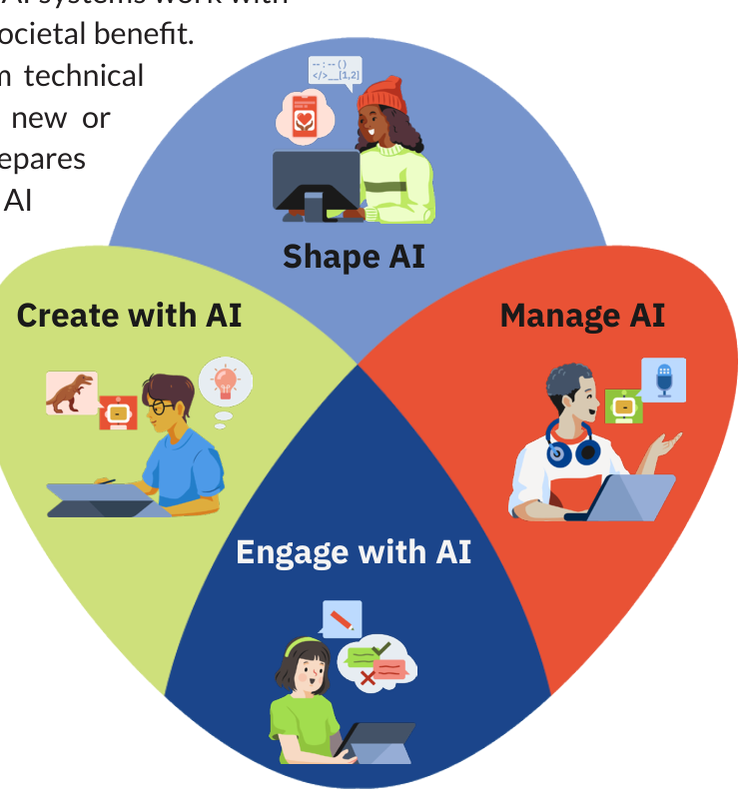
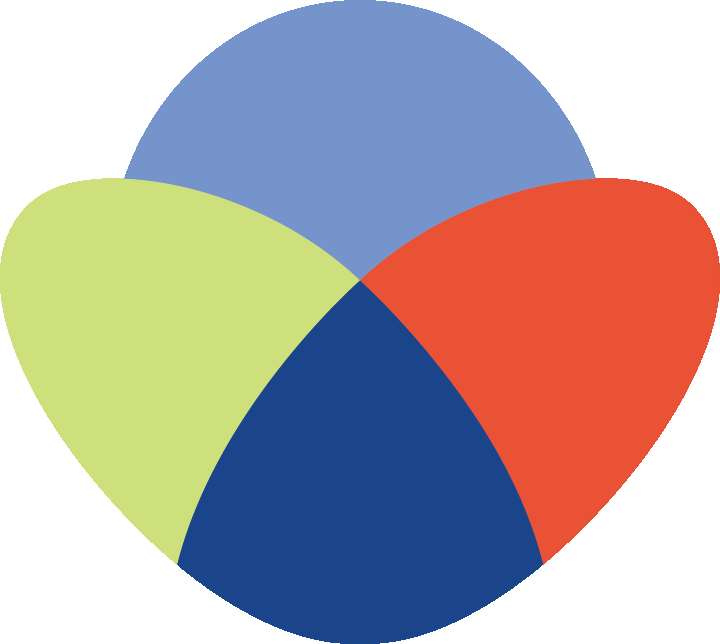
fix(ailit): 깨진 도판 교체 + 가독성 개선, about 문체·강조 조정
AILit 번역 포스트 도판
- 그림 1: 페이지 클립 좌표를 눈대중으로 잡아 왼쪽 본문 줄 끝이 잘려
  들어갔다. 본문이 원 주위를 감싸 흘러 사각형 클립으로는 분리가
  불가능해, 텍스트가 없는 원본 raster로 교체했다.
- 원본의 흰 배경이 실제 픽셀이라 다크모드에서 흰 박스로 떴다.
  근백색·근무채색 픽셀만 알파 램프로 제거(31.2%)해 두 테마에 얹힌다.
- 영문 라벨이 사라진 자리는 한국어 색상 범례로 대체
- 그림 5: 상단 영문 도입 단락(본문에서 이미 번역)을 잘라냄
- 04장 도입 삽화 삭제. 원본 PDF에서 페이지 가장자리로 잘려 나가는
  장식 요소라 추출하면 조각난 형태가 된다.

가독성
- 상단에 '읽기 안내' 카드 추가(문서 길이·구성·3단계의 의미)
- 역량 19개의 지식·기술·태도 메타를 칩으로 정리
- 기본/중급/심화 57개를 색상 배지로 교체해 스캔 가능하게
- .ailit-* 클래스에만 스타일을 걸어 다른 페이지에 영향 없음

about
- 슬로건 3문장을 존댓말로 변경
- '지금 파고드는 것들' 제목 확대, 관심 분야를 알약형 태그로 확대.
  TOC 오염을 막으려 실제 헤딩 대신 스타일 요소 사용

Claude-Session: https://claude.ai/code/session_01QeVE5A1S5QmSwqK5FTBEFZ

diff --git a/_pages/about.md b/_pages/about.md
@@ -50,6 +50,13 @@ html[data-theme="light"] #dot-manifesto .dm-nodes circle{fill:#0969da}
 html[data-theme="light"] #dot-manifesto p{color:#4a5157}
 html[data-theme="light"] #dot-manifesto .dm-key,html[data-theme="light"] #dot-manifesto .dm-last{color:#1f2328}
 html[data-theme="light"] #dot-manifesto .dm-last{border-top-color:rgba(31,35,40,.12)}
+#now-focus{margin:2.3em 0}
+#now-focus .nf-title{margin:0 0 .85em;font-size:1.34em;font-weight:700;letter-spacing:-.02em;color:#e6edf3;text-align:center}
+#now-focus .nf-tags{display:flex;flex-wrap:wrap;justify-content:center;gap:.55em;margin:0}
+#now-focus .nf-tags span{display:inline-block;padding:.44em 1.05em;border-radius:999px;font-size:1.03em;font-weight:600;line-height:1.45;color:#cfe4ff;background:rgba(88,166,255,.13);border:1px solid rgba(88,166,255,.34)}
+html[data-theme="light"] #now-focus .nf-title{color:#1f2328}
+html[data-theme="light"] #now-focus .nf-tags span{color:#0b4fa8;background:rgba(9,105,218,.08);border-color:rgba(9,105,218,.3)}
+@media (max-width:600px){#now-focus .nf-title{font-size:1.2em}#now-focus .nf-tags span{font-size:.97em;padding:.4em .9em}}
 </style>
 
 <div id="dot-manifesto">
@@ -161,14 +168,15 @@ html[data-theme="light"] #dot-manifesto .dm-last{border-top-color:rgba(31,35,40,
   </g>
 </svg>
 
-<p>지식이든 경험이든 사람이든, 모든 것은 저마다의 <span class="dm-dot">점(dot)</span>이다.</p>
-<p>흩어져 있으면 파편이지만, <span class="dm-key">선을 긋는 순간 길이 된다.</span></p>
-<p class="dm-last">이 블로그는 그 연결의 기록이다.</p>
+<p>지식이든 경험이든 사람이든, 모든 것은 저마다의 <span class="dm-dot">점(dot)</span>입니다.</p>
+<p>흩어져 있으면 파편이지만, <span class="dm-key">선을 긋는 순간 길이 됩니다.</span></p>
+<p class="dm-last">이 블로그는 그 연결의 기록입니다.</p>
 </div>
 
-**지금 파고드는 것들**
-
-`AI 디지털 교육` `질문 중심 수업·평가 설계` `깊이 있는 학습` `학습과학` `전문적 학습 공동체` `웹 서비스 개발` `집필·칼럼`
+<div id="now-focus">
+<p class="nf-title">지금 파고드는 것들</p>
+<p class="nf-tags"><span>AI 디지털 교육</span><span>질문 중심 수업·평가 설계</span><span>깊이 있는 학습</span><span>학습과학</span><span>전문적 학습 공동체</span><span>웹 서비스 개발</span><span>집필·칼럼</span></p>
+</div>
 
 ## 걸어온 길
 
